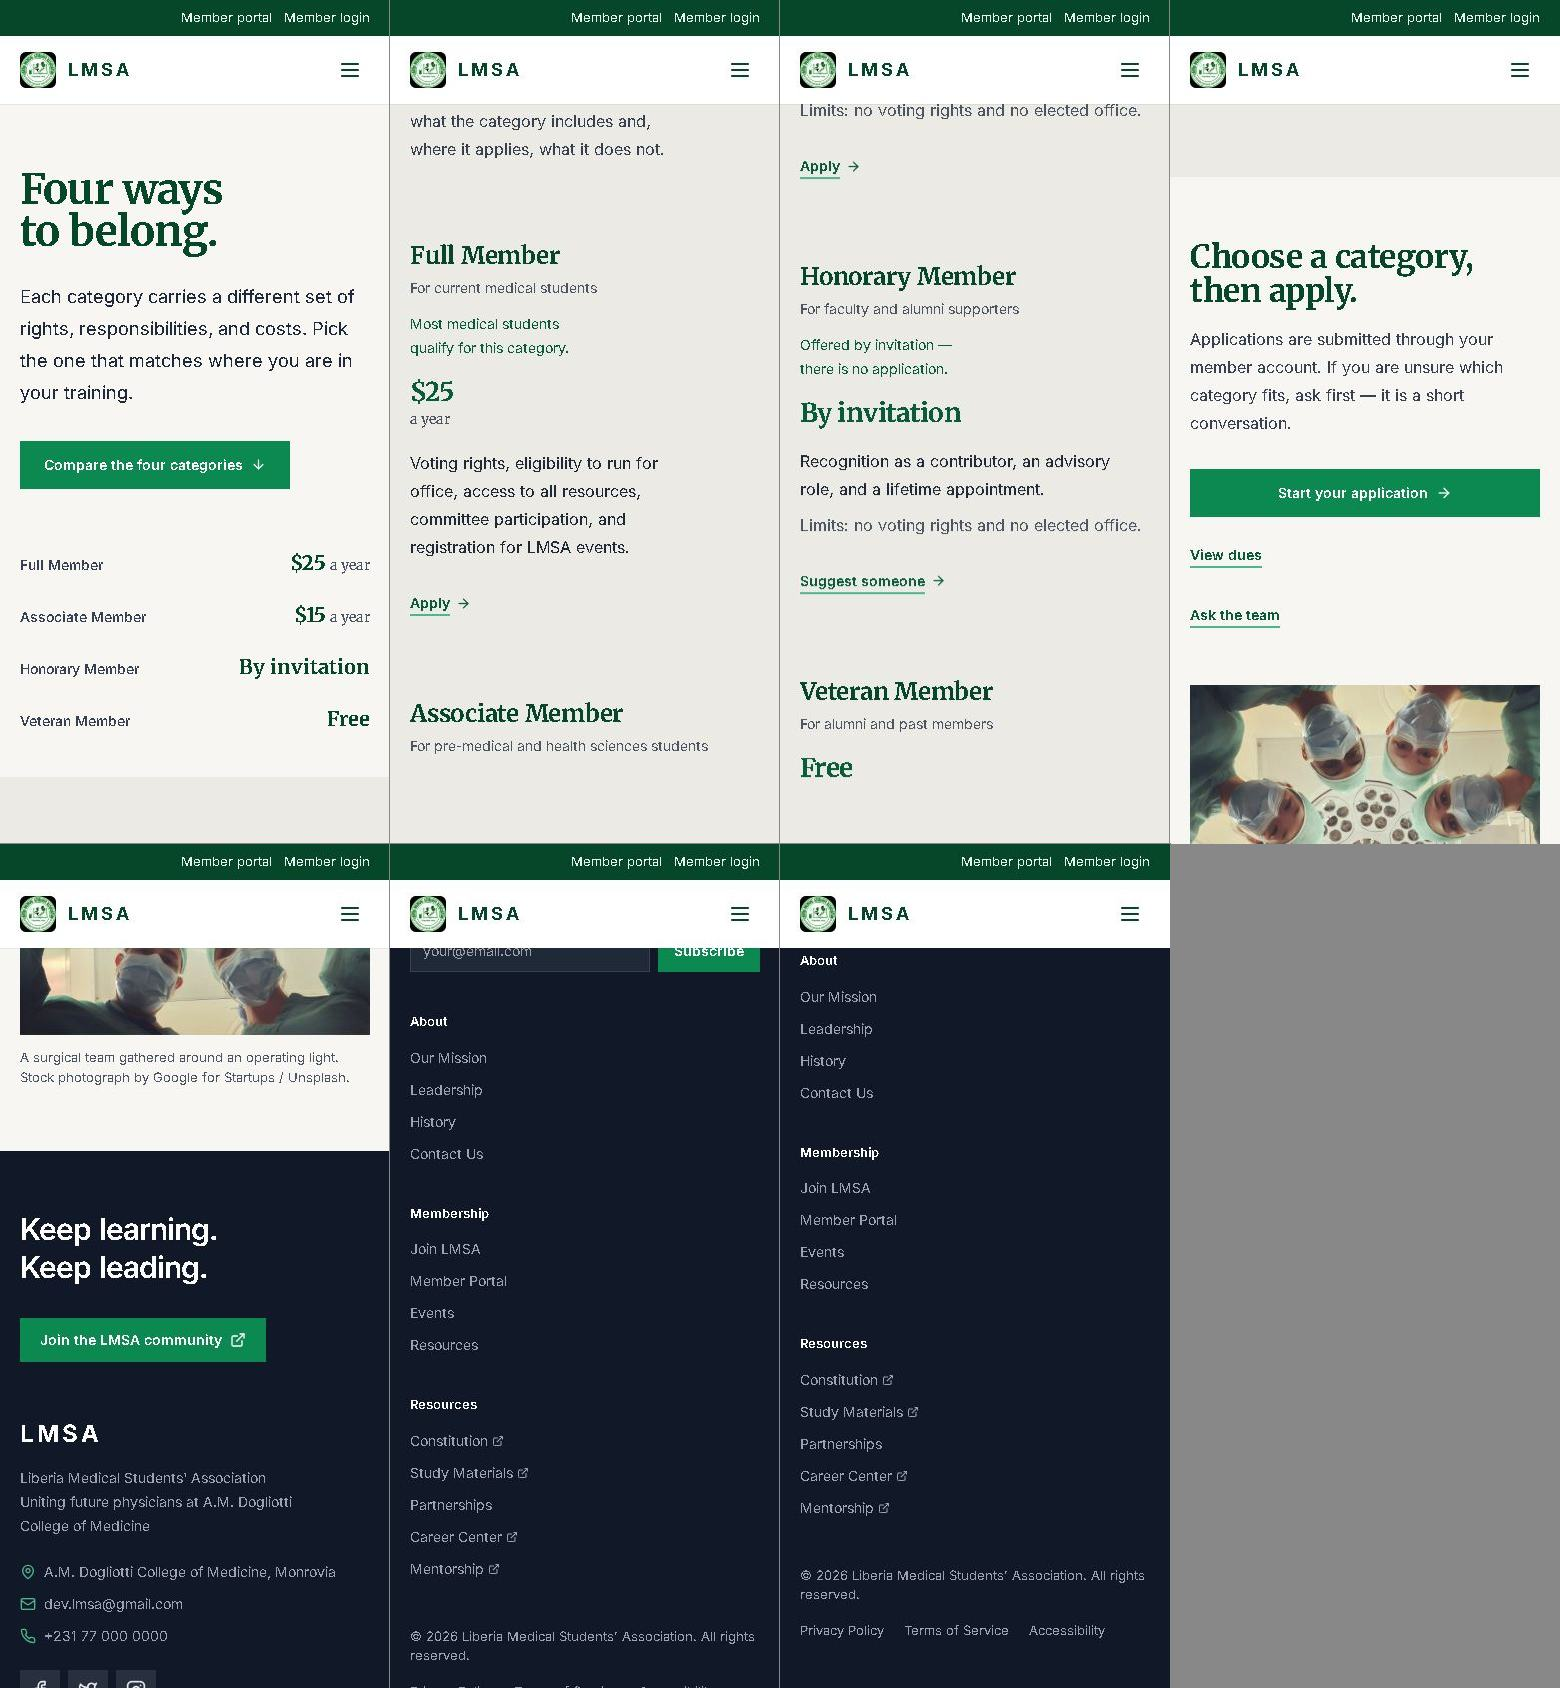
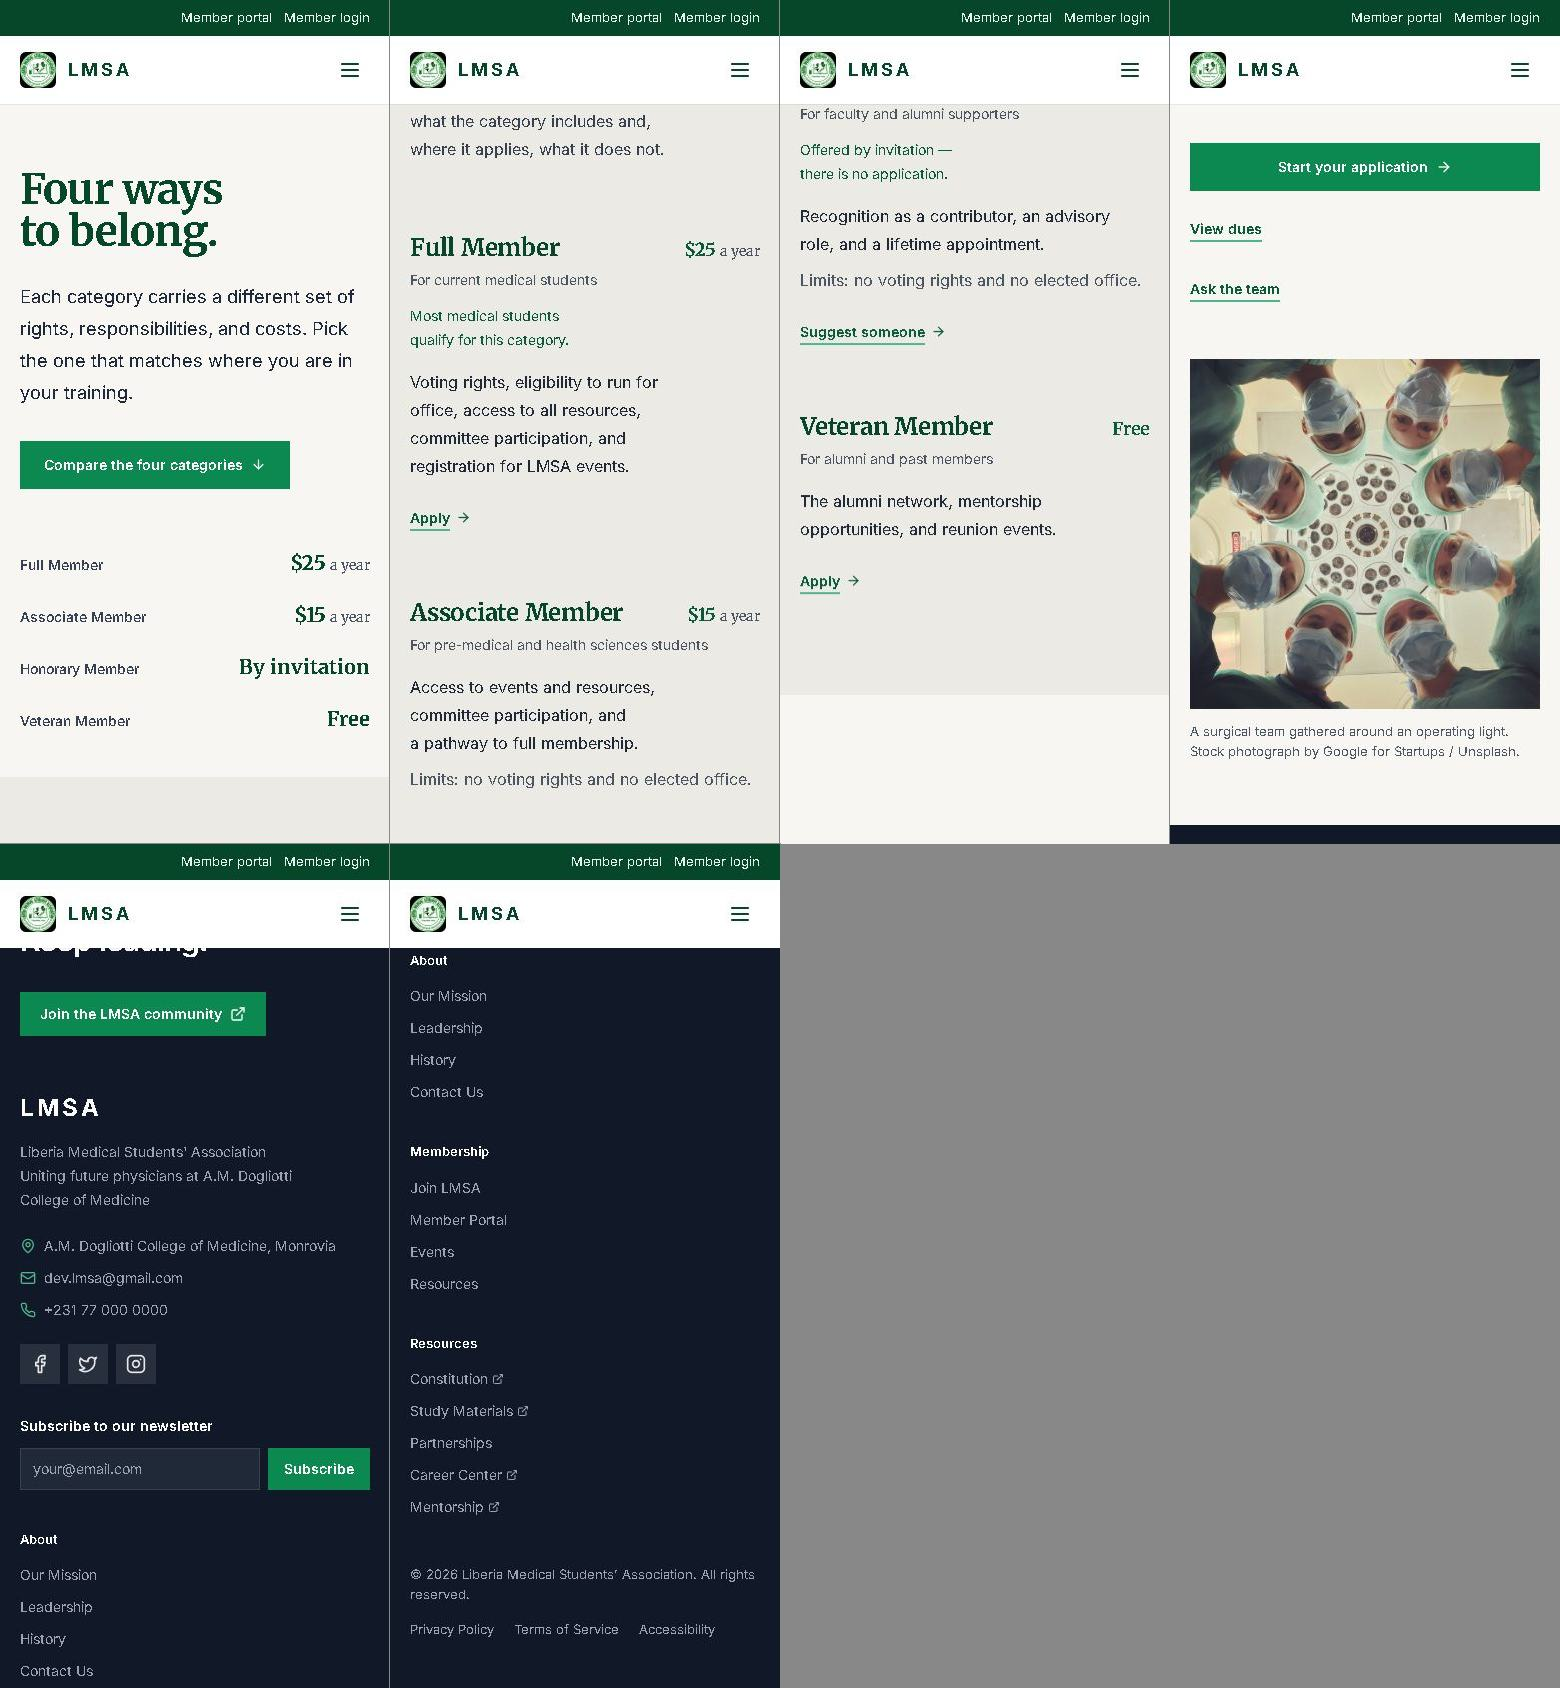
Compact the categories ledger on phones
Each row stacked six blocks, so four categories took 1598px of scrolling on
a 390px screen and the fee sat marooned between the note and the inclusions.
Phones now read the price on the name line with its period inline, and the
rows lose the extra gap and some padding: 1272px, about a fifth shorter,
with the fee where the eye starts.

The standalone price column stays for lg, where the four-column ledger is
untouched.

🤖 Generated with Codebuff

diff --git a/lmsa-website/src/pages/public/CategoriesPage.jsx b/lmsa-website/src/pages/public/CategoriesPage.jsx
@@ -117,22 +117,33 @@ export default function CategoriesPage() {
             {categories.map((category, index) => (
               <li
                 key={category.name}
-                className="group -mx-2 grid gap-5 px-2 py-9 transition-colors duration-200 focus-within:bg-[#f7f6f2] sm:-mx-3 sm:px-3 md:py-11 lg:-mx-4 lg:grid-cols-[1fr_0.62fr_1.45fr_auto] lg:items-start lg:gap-10 lg:px-4 [@media(hover:hover)]:hover:bg-[#f7f6f2]"
+                className="group -mx-2 grid gap-4 px-2 py-7 transition-colors duration-200 focus-within:bg-[#f7f6f2] sm:-mx-3 sm:px-3 md:py-11 lg:-mx-4 lg:grid-cols-[1fr_0.62fr_1.45fr_auto] lg:items-start lg:gap-10 lg:px-4 [@media(hover:hover)]:hover:bg-[#f7f6f2]"
               >
                 <div
                   className="reveal-on-scroll"
                   style={{ transitionDelay: `${index * 70}ms` }}
                 >
-                  <h3 className="font-serif text-2xl font-bold leading-snug tracking-[-0.01em] text-lmsa-900 md:text-[1.75rem]">
-                    {category.name}
-                  </h3>
+                  <div className="flex flex-wrap items-baseline gap-x-3">
+                    <h3 className="font-serif text-2xl font-bold leading-snug tracking-[-0.01em] text-lmsa-900 md:text-[1.75rem]">
+                      {category.name}
+                    </h3>
+                    {/* Phones read the fee on the name line; the grid column takes over at lg. */}
+                    <p className="ml-auto whitespace-nowrap font-serif text-lg font-bold leading-none tracking-[-0.02em] text-lmsa-800 lg:hidden">
+                      {category.price}
+                      {category.period && (
+                        <span className="ml-1 text-sm font-normal tracking-normal text-gray-600">
+                          {category.period}
+                        </span>
+                      )}
+                    </p>
+                  </div>
                   <p className="mt-1 text-balance text-sm leading-6 text-gray-600">For {category.audience.charAt(0).toLowerCase() + category.audience.slice(1)}</p>
                   {category.note && (
                     <p className="mt-3 max-w-[30ch] text-balance text-sm leading-6 text-lmsa-800">{category.note}</p>
                   )}
                 </div>
                 <p
-                  className="reveal-on-scroll whitespace-nowrap font-serif text-[clamp(1.6rem,2.2vw,1.9rem)] font-bold leading-none tracking-[-0.02em] text-lmsa-800"
+                  className="reveal-on-scroll hidden whitespace-nowrap font-serif text-[clamp(1.6rem,2.2vw,1.9rem)] font-bold leading-none tracking-[-0.02em] text-lmsa-800 lg:block"
                   style={{ transitionDelay: `${index * 70 + 60}ms` }}
                 >
                   {category.price}
